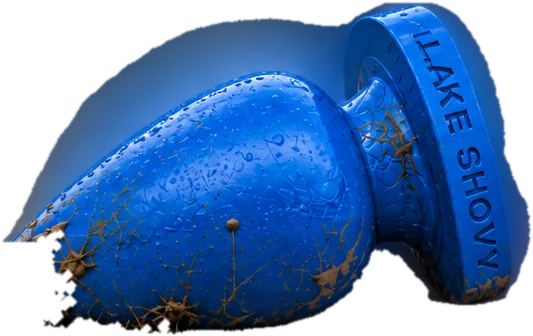
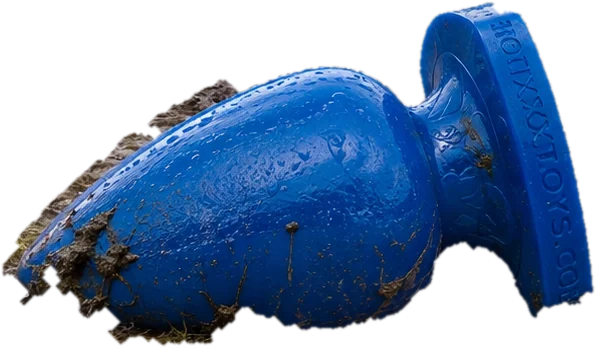
fish: v0.1.1 - cleaner plug, sinkhole and kayak cut from the text-free scene
The sticker-sheet cuts had ragged edges. The plug and kayak are now hue-masked
out of the original scene (only blue and purple objects in frame), the muddy
plug tip is kept, and the sinkhole is a feathered photo crop. Kayak added to the
Demands section. Version bump and README changelog.

diff --git a/fish/index.html b/fish/index.html
@@ -3,7 +3,7 @@
 <head>
 <meta charset="UTF-8" />
 <meta name="viewport" content="width=device-width, initial-scale=1.0" />
-<meta name="version" content="0.1.0" />
+<meta name="version" content="0.1.1" />
 <title>LET US !FISH — Donut let Lake Shoovy dry up | BookHockeys</title>
 
 <meta name="description" content="Somebody pulled the plug on Lake Shoovy. Join the protest: type !fish in chat, bring the chants, and donut let the lake dry up. Lakes feed life." />
@@ -214,7 +214,9 @@
   .sticker--drops { width: clamp(60px, 8vw, 120px); left: 2%; top: 38%; transform: rotate(-12deg); }
   .sticker--splash { width: clamp(160px, 26vw, 360px); left: -4%; bottom: 2%; transform: rotate(6deg); z-index: 1; }
   .sticker--sign { width: clamp(110px, 14vw, 200px); right: 2%; bottom: 6%; transform: rotate(7deg); }
-  .sticker--plug { width: clamp(180px, 30vw, 420px); right: -6%; top: -8%; transform: rotate(-14deg); z-index: 1; }
+  .sticker--plug { width: clamp(180px, 30vw, 420px); right: -3%; top: 3%; transform: rotate(-10deg); z-index: 1; }
+  .sticker--kayak { width: clamp(120px, 16vw, 230px); right: -2%; bottom: -3%; transform: rotate(-24deg); z-index: 1; }
+  .section--clip { overflow: hidden; }
 
   /* Cardboard sections */
   .card {
@@ -363,6 +365,7 @@
     .sticker--plug { width: 46vw; right: -14%; top: -4%; }
     .sticker--sign { display: none; }
     .sticker--drops { display: none; }
+    .sticker--kayak { width: 30vw; right: -8%; bottom: -2%; }
     .tape { width: 80px; height: 24px; }
     .hero__head, .hero__sub { transform: none; }
     .demand__sign { min-height: 96px; padding: 16px 14px 14px; }
@@ -389,7 +392,7 @@
 
 <main>
   <section class="hero">
-    <img class="sticker sticker--plug" src="img/plug.webp" alt="" width="533" height="336" loading="eager" />
+    <img class="sticker sticker--plug" src="img/plug.webp" alt="" width="596" height="348" loading="eager" />
     <img class="sticker sticker--donut" src="img/donut.webp" alt="" width="148" height="142" />
     <img class="sticker sticker--drops" src="img/droplets.webp" alt="" width="145" height="155" />
     <img class="sticker sticker--splash" src="img/splash.webp" alt="" width="375" height="180" />
@@ -426,14 +429,15 @@
           <p>We are not asking for much. We are asking for a lake. <strong>Lakes feed life.</strong></p>
         </div>
         <div class="situation__art">
-          <img src="img/sinkhole.webp" width="520" height="291" alt="A muddy sinkhole with lake water pouring into it" loading="lazy" />
+          <img src="img/sinkhole.webp" width="640" height="395" alt="A muddy sinkhole with lake water pouring into it" loading="lazy" />
           <span class="situation__caption">this used to be the lake</span>
         </div>
       </div>
     </div>
   </section>
 
-  <section>
+  <section class="section--clip">
+    <img class="sticker sticker--kayak" src="img/kayak.webp" alt="" width="301" height="345" loading="lazy" />
     <div class="wrap">
       <h2 class="section-title stroke">OUR <span class="red">DEMANDS</span></h2>
       <div class="demands">
@@ -491,7 +495,7 @@
 <footer>
   <div class="wrap">
     <p>Satire. A lake protest for a chat command. No lakes, plugs, or donuts were harmed.</p>
-    <p><a href="https://bookhockeys.com/">bookhockeys.com</a> <span class="ver">&middot; v0.1.0</span></p>
+    <p><a href="https://bookhockeys.com/">bookhockeys.com</a> <span class="ver">&middot; v0.1.1</span></p>
   </div>
 </footer>
 

diff --git a/README.md b/README.md
@@ -44,6 +44,14 @@ To force a specific order in slots 4+, edit `clips/playlist.json` directly — t
 - The decision is stored in `localStorage` under the key `greenline-consent` and persists across both pages — accept or reject once and you're set site-wide.
 - A small "Cookies" link in the bottom-right of the home page (and the footer of `/greenline/`) clears the decision and re-shows the banner.
 
+## Changelog — /fish
+
+### v0.1.1 — 2026-09-12
+- Re-cut the plug, sinkhole and kayak from the text-free source scene instead of the sticker sheet. The plug and kayak now come from hue masks (the only blue and purple objects in the frame), so their edges are clean instead of ragged, and the sinkhole is a feathered photo crop rather than a jagged cut-out. The kayak now leans into the Demands section; it had been dropped in v0.1.0 because the sticker-sheet cut was unusable.
+
+### v0.1.0 — 2026-09-12
+- First release. Protest-style landing page around the LET US !FISH poster: chant ticker, poster on a picket stick, cardboard story and demands, copyable chants, share button. Static, no analytics.
+
 ## Changelog — home page
 
 ### v0.1.16 — 2026-07-22
